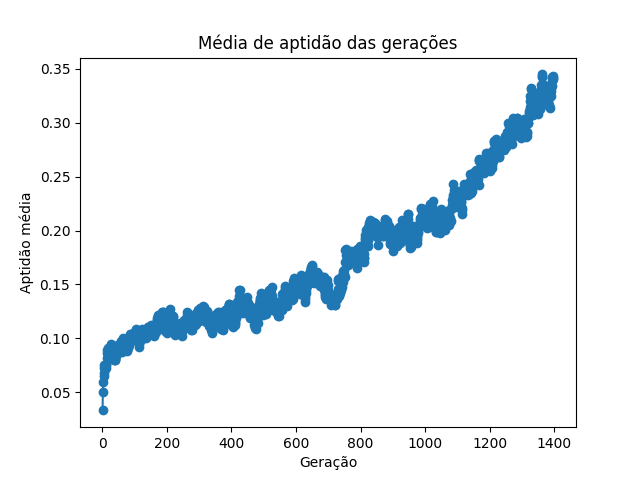
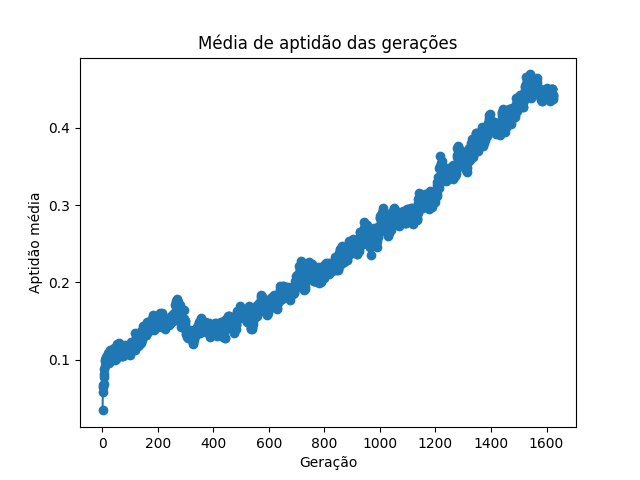
Running samples 6 and 7.

diff --git a/database/unified_database.py b/database/unified_database.py
@@ -293,7 +293,7 @@ class UnifiedDatabase:
             Availability(teacher_id=self.teachers[4].id, day_of_week=3, teacher=self.teachers[4]),
             Availability(teacher_id=self.teachers[4].id, day_of_week=4, teacher=self.teachers[4]),
 
-            Availability(teacher_id=self.teachers[6].id, day_of_week=1, teacher=self.teachers[6]),
+            Availability(teacher_id=self.teachers[6].id, day_of_week=0, teacher=self.teachers[6]),
             Availability(teacher_id=self.teachers[6].id, day_of_week=2, teacher=self.teachers[6]),
             Availability(teacher_id=self.teachers[6].id, day_of_week=3, teacher=self.teachers[6]),
             Availability(teacher_id=self.teachers[6].id, day_of_week=4, teacher=self.teachers[6]),
@@ -304,70 +304,71 @@ class UnifiedDatabase:
             Availability(teacher_id=self.teachers[1].id, day_of_week=3, teacher=self.teachers[1]),
             Availability(teacher_id=self.teachers[1].id, day_of_week=4, teacher=self.teachers[1]),
 
-            Availability(teacher_id=self.teachers[2].id, day_of_week=0, teacher=self.teachers[2]),
+            Availability(teacher_id=self.teachers[2].id, day_of_week=1, teacher=self.teachers[2]),
             Availability(teacher_id=self.teachers[2].id, day_of_week=2, teacher=self.teachers[2]),
-            Availability(teacher_id=self.teachers[2].id, day_of_week=3, teacher=self.teachers[2]),
+            Availability(teacher_id=self.teachers[2].id, day_of_week=4, teacher=self.teachers[2]),
 
-            Availability(teacher_id=self.teachers[3].id, day_of_week=2, teacher=self.teachers[3]),
-            Availability(teacher_id=self.teachers[3].id, day_of_week=3, teacher=self.teachers[3]),
+            Availability(teacher_id=self.teachers[3].id, day_of_week=0, teacher=self.teachers[3]),
+            Availability(teacher_id=self.teachers[3].id, day_of_week=1, teacher=self.teachers[3]),
             Availability(teacher_id=self.teachers[3].id, day_of_week=4, teacher=self.teachers[3]),
 
             Availability(teacher_id=self.teachers[16].id, day_of_week=0, teacher=self.teachers[16]),
             Availability(teacher_id=self.teachers[16].id, day_of_week=1, teacher=self.teachers[16]),
-            Availability(teacher_id=self.teachers[16].id, day_of_week=4, teacher=self.teachers[16]),
+            Availability(teacher_id=self.teachers[16].id, day_of_week=3, teacher=self.teachers[16]),
 
             Availability(teacher_id=self.teachers[8].id, day_of_week=0, teacher=self.teachers[8]),
             Availability(teacher_id=self.teachers[8].id, day_of_week=1, teacher=self.teachers[8]),
+            Availability(teacher_id=self.teachers[8].id, day_of_week=2, teacher=self.teachers[8]),
             Availability(teacher_id=self.teachers[8].id, day_of_week=3, teacher=self.teachers[8]),
             Availability(teacher_id=self.teachers[8].id, day_of_week=4, teacher=self.teachers[8]),
 
-            Availability(teacher_id=self.teachers[0].id, day_of_week=1, teacher=self.teachers[0]),
             Availability(teacher_id=self.teachers[0].id, day_of_week=2, teacher=self.teachers[0]),
+            Availability(teacher_id=self.teachers[0].id, day_of_week=3, teacher=self.teachers[0]),
             Availability(teacher_id=self.teachers[0].id, day_of_week=4, teacher=self.teachers[0]),
 
-            Availability(teacher_id=self.teachers[5].id, day_of_week=0, teacher=self.teachers[5]),
+            Availability(teacher_id=self.teachers[5].id, day_of_week=1, teacher=self.teachers[5]),
             Availability(teacher_id=self.teachers[5].id, day_of_week=2, teacher=self.teachers[5]),
-            Availability(teacher_id=self.teachers[5].id, day_of_week=3, teacher=self.teachers[5]),
+            Availability(teacher_id=self.teachers[5].id, day_of_week=4, teacher=self.teachers[5]),
 
             Availability(teacher_id=self.teachers[9].id, day_of_week=0, teacher=self.teachers[9]),
+            Availability(teacher_id=self.teachers[9].id, day_of_week=1, teacher=self.teachers[9]),
             Availability(teacher_id=self.teachers[9].id, day_of_week=2, teacher=self.teachers[9]),
-            Availability(teacher_id=self.teachers[9].id, day_of_week=3, teacher=self.teachers[9]),
             Availability(teacher_id=self.teachers[9].id, day_of_week=4, teacher=self.teachers[9]),
 
-            Availability(teacher_id=self.teachers[12].id, day_of_week=2, teacher=self.teachers[12]),
+            Availability(teacher_id=self.teachers[12].id, day_of_week=0, teacher=self.teachers[12]),
+            Availability(teacher_id=self.teachers[12].id, day_of_week=1, teacher=self.teachers[12]),
             Availability(teacher_id=self.teachers[12].id, day_of_week=3, teacher=self.teachers[12]),
-            Availability(teacher_id=self.teachers[12].id, day_of_week=4, teacher=self.teachers[12]),
 
-            Availability(teacher_id=self.teachers[13].id, day_of_week=1, teacher=self.teachers[13]),
-            Availability(teacher_id=self.teachers[13].id, day_of_week=3, teacher=self.teachers[13]),
+            Availability(teacher_id=self.teachers[13].id, day_of_week=0, teacher=self.teachers[13]),
+            Availability(teacher_id=self.teachers[13].id, day_of_week=2, teacher=self.teachers[13]),
             Availability(teacher_id=self.teachers[13].id, day_of_week=4, teacher=self.teachers[13]),
 
-            Availability(teacher_id=self.teachers[7].id, day_of_week=0, teacher=self.teachers[7]),
             Availability(teacher_id=self.teachers[7].id, day_of_week=1, teacher=self.teachers[7]),
-            Availability(teacher_id=self.teachers[7].id, day_of_week=4, teacher=self.teachers[7]),
+            Availability(teacher_id=self.teachers[7].id, day_of_week=2, teacher=self.teachers[7]),
+            Availability(teacher_id=self.teachers[7].id, day_of_week=3, teacher=self.teachers[7]),
 
-            Availability(teacher_id=self.teachers[14].id, day_of_week=0, teacher=self.teachers[14]),
+            Availability(teacher_id=self.teachers[14].id, day_of_week=1, teacher=self.teachers[14]),
             Availability(teacher_id=self.teachers[14].id, day_of_week=3, teacher=self.teachers[14]),
             Availability(teacher_id=self.teachers[14].id, day_of_week=4, teacher=self.teachers[14]),
 
             Availability(teacher_id=self.teachers[19].id, day_of_week=0, teacher=self.teachers[19]),
-            Availability(teacher_id=self.teachers[19].id, day_of_week=1, teacher=self.teachers[19]),
             Availability(teacher_id=self.teachers[19].id, day_of_week=2, teacher=self.teachers[19]),
+            Availability(teacher_id=self.teachers[19].id, day_of_week=3, teacher=self.teachers[19]),
 
-            Availability(teacher_id=self.teachers[21].id, day_of_week=1, teacher=self.teachers[21]),
+            Availability(teacher_id=self.teachers[21].id, day_of_week=0, teacher=self.teachers[21]),
             Availability(teacher_id=self.teachers[21].id, day_of_week=3, teacher=self.teachers[21]),
             Availability(teacher_id=self.teachers[21].id, day_of_week=4, teacher=self.teachers[21]),
 
             Availability(teacher_id=self.teachers[17].id, day_of_week=0, teacher=self.teachers[17]),
+            Availability(teacher_id=self.teachers[17].id, day_of_week=2, teacher=self.teachers[17]),
             Availability(teacher_id=self.teachers[17].id, day_of_week=3, teacher=self.teachers[17]),
-            Availability(teacher_id=self.teachers[17].id, day_of_week=4, teacher=self.teachers[17]),
 
             Availability(teacher_id=self.teachers[15].id, day_of_week=1, teacher=self.teachers[15]),
-            Availability(teacher_id=self.teachers[15].id, day_of_week=2, teacher=self.teachers[15]),
             Availability(teacher_id=self.teachers[15].id, day_of_week=3, teacher=self.teachers[15]),
+            Availability(teacher_id=self.teachers[15].id, day_of_week=4, teacher=self.teachers[15]),
 
-            Availability(teacher_id=self.teachers[18].id, day_of_week=2, teacher=self.teachers[18]),
-            Availability(teacher_id=self.teachers[18].id, day_of_week=3, teacher=self.teachers[18]),
+            Availability(teacher_id=self.teachers[18].id, day_of_week=0, teacher=self.teachers[18]),
+            Availability(teacher_id=self.teachers[18].id, day_of_week=1, teacher=self.teachers[18]),
             Availability(teacher_id=self.teachers[18].id, day_of_week=4, teacher=self.teachers[18]),
         ]
 

diff --git a/main.py b/main.py
@@ -87,17 +87,7 @@ while generation_number < GENERATIONS_NUMBER:
     generation_number += 1
     end_generation = time.time()
 
-    # print("TEMPO DE EXECUÇÃO PARA A GERAÇÃO %i - Tempo: %f - Melhor indivíduo: %f - Média: %f" %
-    #       (generation_number, end_generation - start_generation, best_individual.fitness, average))
-
     gc.collect()
-
-    # Parando execução após encontrar indivíduo com fitness 2
-    if best_individual.fitness == 2:
-        count_best_individual += 1
-        if count_best_individual == 40 or generation_number == GENERATIONS_NUMBER:
-            save_best_individuals(actual_population)
-            break
 
     print("TEMPO DE EXECUÇÃO PARA A GERAÇÃO %i - Tempo: %f - Melhor indivíduo: %f - Média: %f" %
           (generation_number, end_generation - start_generation, best_individual.fitness, average))
@@ -108,6 +98,11 @@ while generation_number < GENERATIONS_NUMBER:
                best_individual.summation['lp'], best_individual.summation['pf'], best_individual.summation['ch']))
 
         Utils.print_timetable(best_individual)
+
+    # Parando execução após encontrar indivíduo com fitness 2
+    if best_individual.fitness == 2:
+        save_best_individuals(actual_population)
+        break
 
 end = time.time()
 

diff --git a/settings.py b/settings.py
@@ -1,8 +1,8 @@
 from sqlalchemy.ext.declarative import declarative_base
 
 
-SQLALCHEMY_URI = "mysql://root:password@localhost:3306/timetable?charset=utf8"
-SAMPLE_NAME = "amostra_10"
+SQLALCHEMY_URI = "mysql://root:password@localhost:3306/timetable7?charset=utf8"
+SAMPLE_NAME = "amostra_7"
 POPULATION_SIZE = 100
 GENERATIONS_NUMBER = 2000
 TOTAL_PERIODS = 8
